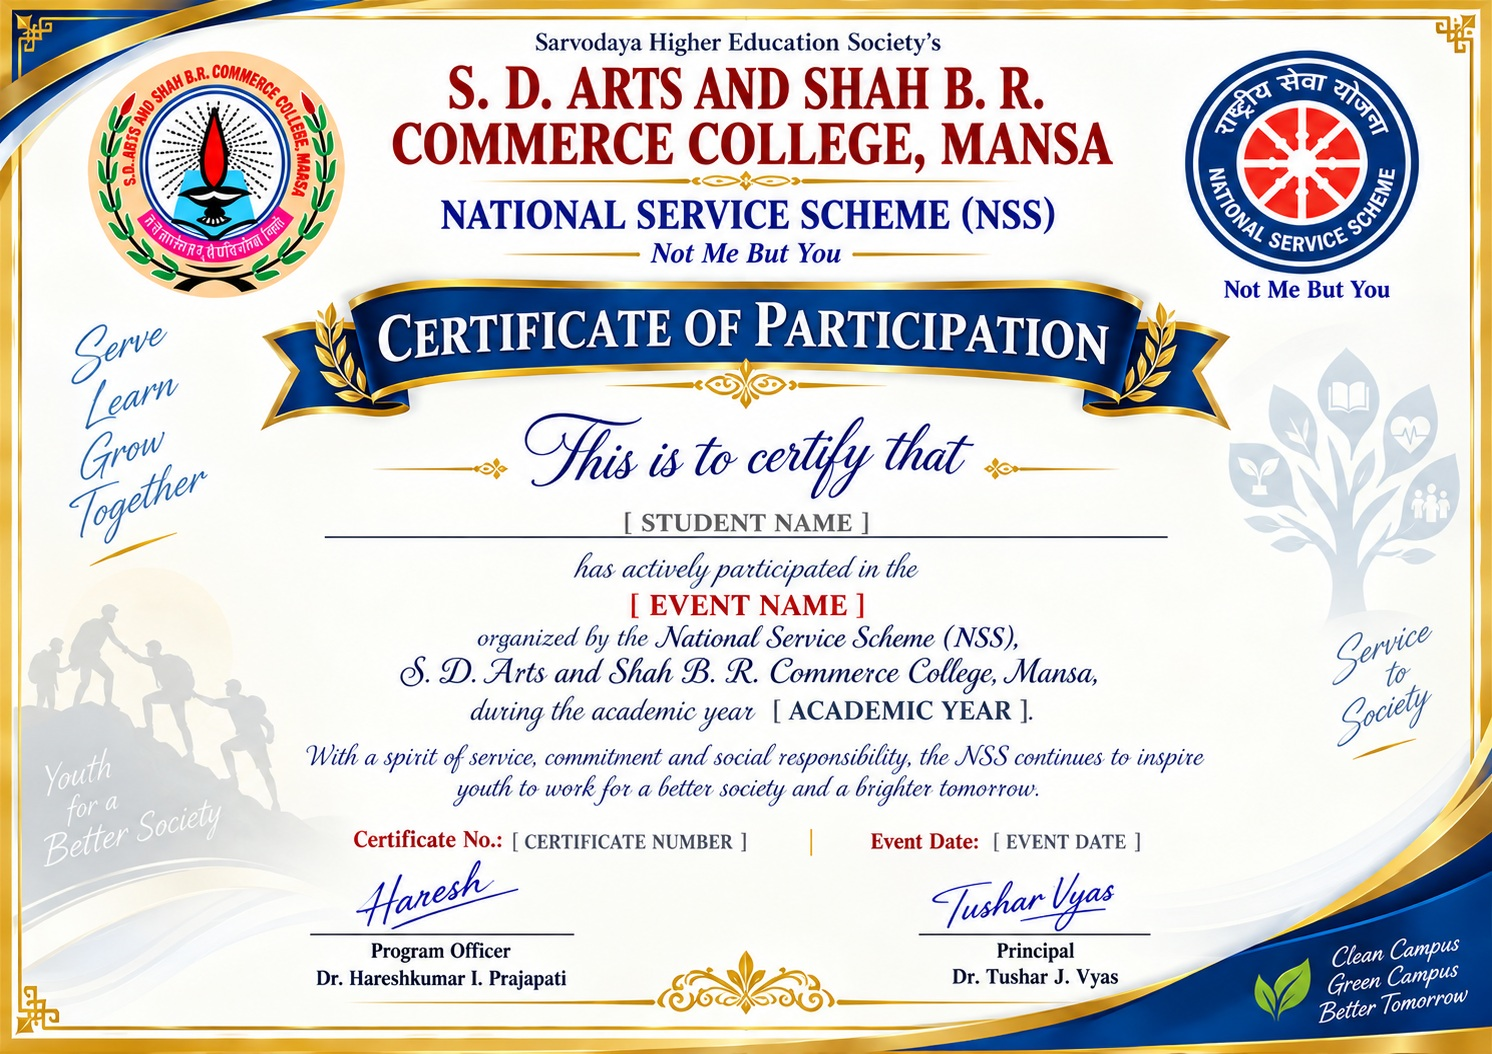
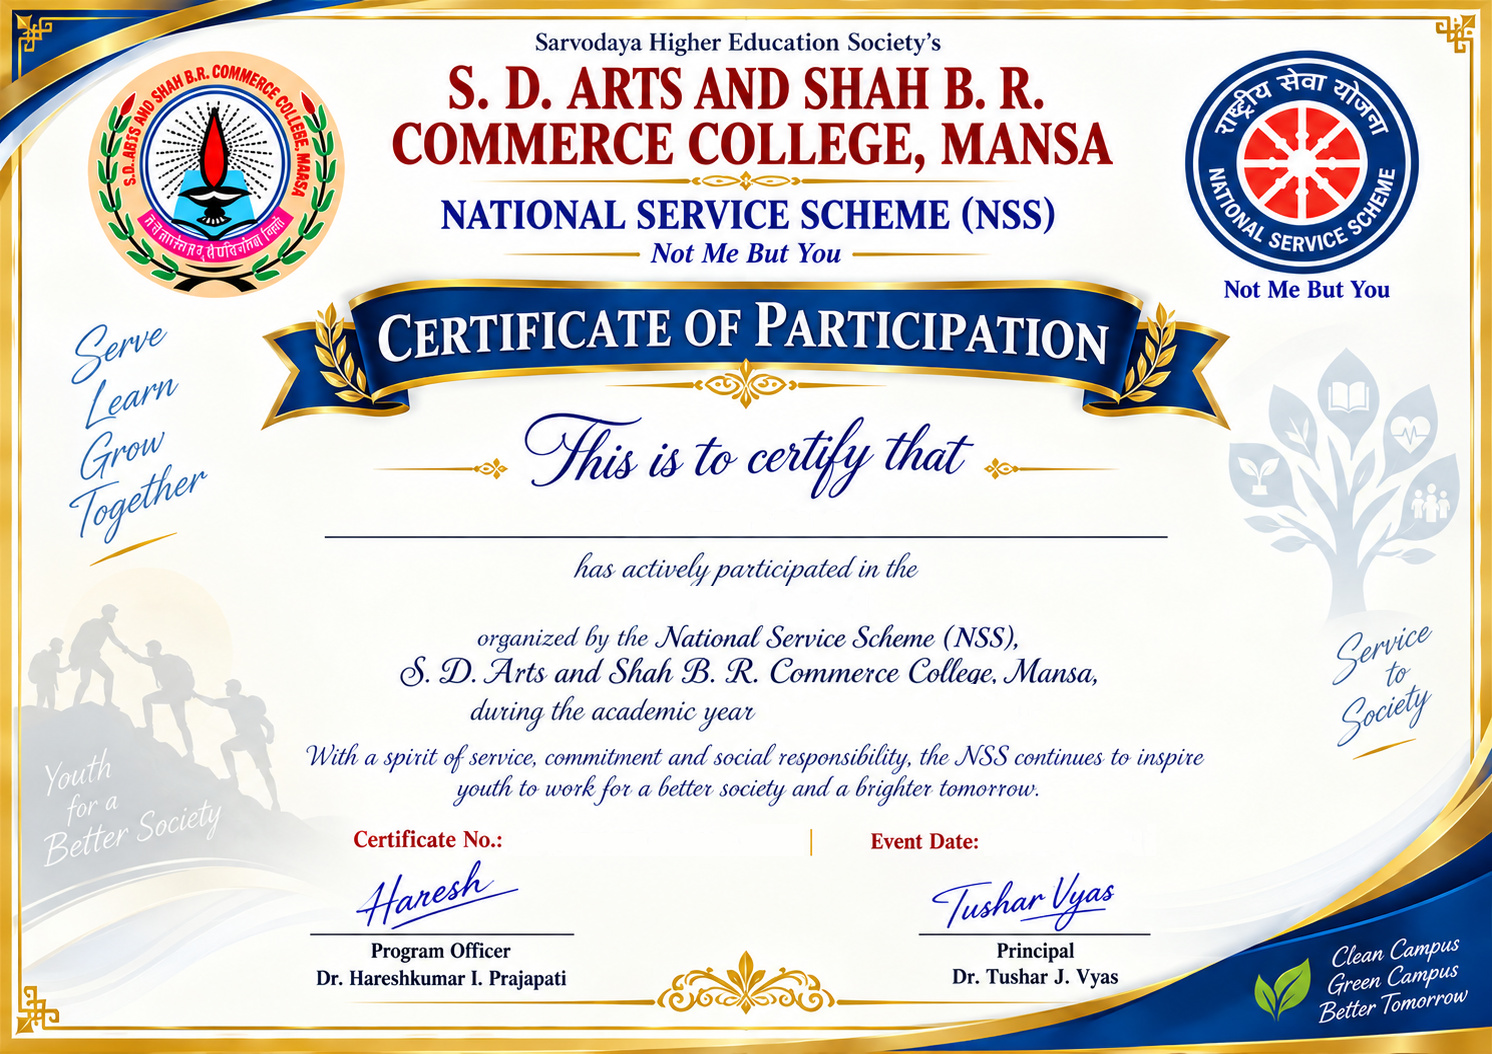
Print the college certificate on the original design with clear text.
Remove the placeholder phrases and the beige boxes so the name, event, year, number and date sit directly on the paper.

diff --git a/src/lib/nss/certificates.ts b/src/lib/nss/certificates.ts
@@ -76,7 +76,8 @@ body {
   aspect-ratio: 1492 / 1054;
   margin: 0 auto;
   overflow: hidden;
-  background: #fff;
+  background: transparent;
+  container-type: inline-size;
   page-break-after: always;
 }
 .sheet:last-child { page-break-after: auto; }
@@ -89,95 +90,80 @@ body {
   object-fit: fill;
   z-index: 0;
 }
-.text-layer {
+.text-layer { position: absolute; inset: 0; z-index: 2; }
+.name, .event-name, .year, .cert-id, .date {
   position: absolute;
-  inset: 0;
-  z-index: 3;
-  pointer-events: none;
+  margin: 0;
+  display: flex;
+  align-items: center;
+  justify-content: center;
+  text-align: center;
+  background: transparent;
+  line-height: 1;
+  overflow: hidden;
 }
 .name {
-  position: absolute;
-  left: 20%;
-  top: 46.3%;
+  left: 20.1%;
+  top: 48.05%;
   width: 60%;
-  height: 4.0%;
-  margin: 0;
-  display: flex;
-  align-items: center;
-  justify-content: center;
-  text-align: center;
-  font-family: "Dancing Script", cursive;
-  text-transform: uppercase;
-  font-size: 20pt;
-  line-height: 1;
+  height: 2.7%;
+  font-family: "Cormorant Garamond", Georgia, serif;
+  font-size: 2.01cqw;
   font-weight: 700;
-  color: #173b87;
-  white-space: nowrap;
-  overflow: hidden;
-  background: #f6f1e6;
+  letter-spacing: 0.08em;
+  color: #1a2256;
+  text-transform: uppercase;
 }
 .event-name {
-  position: absolute;
-  left: 30%;
-  top: 55.2%;
-  width: 40%;
-  height: 3.4%;
-  margin: 0;
-  display: flex;
-  align-items: center;
-  justify-content: center;
-  text-align: center;
+  left: 19%;
+  top: 55.95%;
+  width: 62%;
+  height: 3%;
   font-family: "Cormorant Garamond", Georgia, serif;
-  font-size: 16pt;
-  line-height: 1.1;
-  font-style: normal;
-  font-weight: 800;
-  color: #b11619;
-  white-space: normal;
-  overflow: hidden;
-  background: #f6f1e6;
+  font-size: 2.01cqw;
+  font-weight: 700;
+  letter-spacing: 0.04em;
+  color: #b50809;
 }
 .year {
-  position: absolute;
-  left: 51.5%;
-  top: 65.2%;
-  width: 19%;
-  height: 3.4%;
-  margin: 0;
-  display: flex;
-  align-items: center;
-  justify-content: center;
-  text-align: center;
+  left: 51.74%;
+  top: 65.84%;
+  width: 22%;
+  height: 3.04%;
+  justify-content: flex-start;
+  text-align: left;
   font-family: "Cormorant Garamond", Georgia, serif;
-  font-size: 16pt;
-  line-height: 1;
-  font-weight: 700;
-  color: #173a87;
-  white-space: nowrap;
-  background: #f6f1e6;
+  font-size: 1.81cqw;
+  font-style: italic;
+  font-weight: 600;
+  color: #1a2256;
 }
 .cert-id, .date {
-  position: absolute;
-  top: 77.4%;
-  height: 3.1%;
-  margin: 0;
-  display: flex;
-  align-items: center;
-  justify-content: center;
-  text-align: center;
+  top: 78.64%;
+  height: 2.4%;
+  justify-content: flex-start;
+  text-align: left;
   font-family: "Noto Sans", Arial, sans-serif;
-  font-size: 11pt;
-  line-height: 1;
-  font-weight: 600;
-  color: #173a87;
-  white-space: nowrap;
-  overflow: hidden;
-  background: #f6f1e6;
+  font-size: 1.14cqw;
+  font-weight: 700;
+  color: #1a2256;
 }
-.cert-id { left: 33.8%; width: 18%; }
-.date { left: 66.2%; width: 16%; }
-.qr-mark { position: absolute; right: 3.2%; bottom: 7%; width: 72px; height: 72px; background: #fff; padding: 3px; }
-.qr-mark svg { width: 66px; height: 66px; display: block; }
+.cert-id { left: 34.65%; width: 18%; }
+.date { left: 66.76%; width: 16%; }
+.qr-mark {
+  position: absolute;
+  left: 47.85%;
+  top: 84.06%;
+  width: 4.29%;
+  height: 6.07%;
+  background: transparent;
+  z-index: 3;
+}
+.qr-mark svg { width: 100%; height: 100%; display: block; background: #fff; }
+@media screen {
+  body { background: #e7e0d2; padding: 12px; }
+  .sheet { box-shadow: 0 10px 35px rgba(0,0,0,.16); }
+}
 .no-print {
   text-align: center;
   margin: 12px 0;
@@ -207,6 +193,10 @@ body {
     margin: 0;
     page-break-after: always;
   }
+  .name { font-size: 17pt; }
+  .event-name { font-size: 17pt; }
+  .year { font-size: 15pt; }
+  .cert-id, .date { font-size: 9.5pt; }
   .certificate-bg {
     -webkit-print-color-adjust: exact;
     print-color-adjust: exact;
@@ -215,7 +205,6 @@ body {
 }
 @media (max-width: 900px) {
   .sheet { min-width: 0; }
-  .name { font-size: 20pt; }
 }
 `;
 async function imageToDataUrl(url: string): Promise<string> {
@@ -259,13 +248,9 @@ async function certificateSheet(opts: {
   settings: PortalSettings;
   certificateNumber?: number;
 }) {
-  let templateDataUrl: string;
-  try {
-    templateDataUrl = await imageToDataUrl("/images/certificate-template.png");
-  } catch {
-    templateDataUrl = await imageToDataUrl("/images/certificate-template.jpg");
-  }
-
+  const templateDataUrl = await imageToDataUrl("/images/certificate-template.png").catch(() =>
+    imageToDataUrl("/images/certificate-template.jpg"),
+  );
   const name = escapeHtml(
     certDisplayName(opts.volunteer.fullName).toUpperCase(),
   );
@@ -285,16 +270,11 @@ async function certificateSheet(opts: {
 
   return `
     <div class="sheet">
-      <img
-        class="certificate-bg"
-        src="${escapeHtml(templateDataUrl)}"
-        alt=""
-        aria-hidden="true"
-      />
+      <img class="certificate-bg" src="${escapeHtml(templateDataUrl)}" alt="" />
       <div class="text-layer">
         <p class="name">${name}</p>
         <p class="event-name">${eventName}</p>
-        <p class="year">${year}</p>
+        <p class="year">${year}.</p>
         <p class="cert-id">${serial}</p>
         <p class="date">${eventDate}</p>
       </div>
@@ -338,8 +318,8 @@ function wrapCertificateDocument(title: string, sheets: string) {
         }
       }
       window.addEventListener("load", function () {
-        document.querySelectorAll(".name").forEach(function (el) { fitText(el, 20, 12); });
-        document.querySelectorAll(".event-name").forEach(function (el) { fitText(el, 16, 9); });
+        document.querySelectorAll(".name").forEach(function (el) { fitText(el, 17, 11); });
+        document.querySelectorAll(".event-name").forEach(function (el) { fitText(el, 17, 10); });
       });
     </script>
     <p class="no-print">
